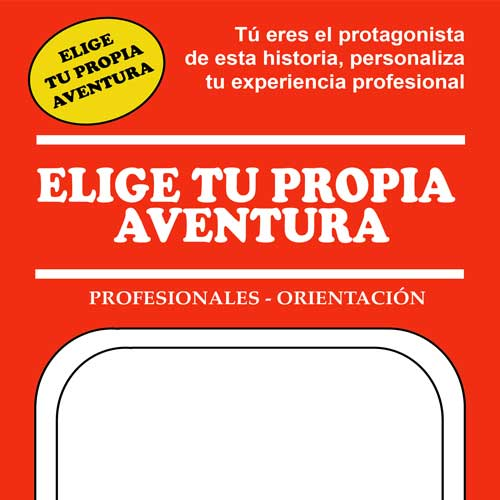
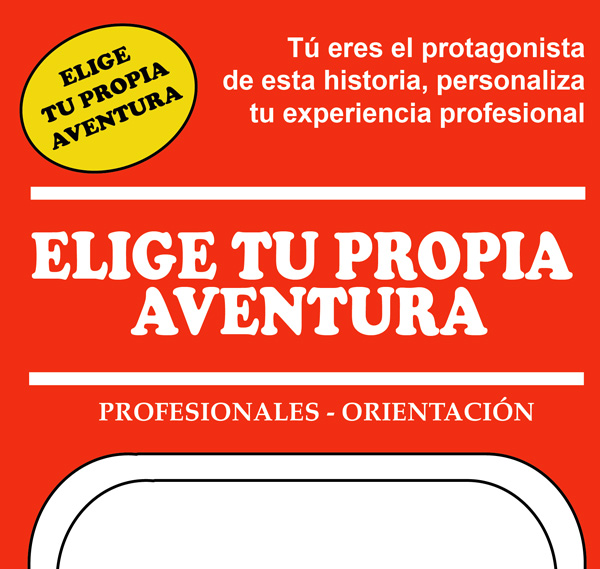
otra subida

diff --git a/secciones/main.html b/secciones/main.html
@@ -60,32 +60,35 @@
             </ol>
             <div class="carousel-inner" id="titulos">
                 <div class="carousel-item active">
-                    <img src="https://static.vix.com/es/sites/default/files/styles/4x3/public/imj/entrepadres/r/recetas-de-comida-para-fiestas-infantiles-1.jpg"
+                    <img src="https://da28ojrjakn6f.cloudfront.net/tickets/27794/NEW/img_1621937533_1621938622__3.jpg?v=1.1.0"
                         class="d-block w-100 img_carousel" alt="Niñx por soplar la torta en su cumpleaños">
                     <div class="carousel-caption d-sm-block">
-                        <h1 class="display-1 resaltador">Canguro animaciones</h1>
+                        <h1 class=" resaltador">Canguro animaciones</h1>
+                        <p class="display-5">La mejor fiesta para vos</p>
                     </div>
                 </div>
                 <div class="carousel-item">
-                    <img src="https://ideasparalasfiestas.com/wp-content/uploads/2019/06/Novedades-en-fiestas-infantiles-1280x720.jpg"
+                    <img src="https://www.spectrum-events.com/upload_files/services/spectrum-events_kids_1579702250.jpg"
                         class="d-block w-100 img_carousel" alt="Decoración temática de cumpleaños">
                     <div class="carousel-caption d-sm-block ">
-                        <h2 class="display-1 resaltador">Canguro animaciones</h2>
-
+                        <h2 class="resaltador">Canguro animaciones</h2>
+                        <p class="display-5">La mejor fiesta para vos</p>
                     </div>
                 </div>
                 <div class="carousel-item">
-                    <img src="https://d2qc4bb64nav1a.cloudfront.net/cdn/13/images/curso-organizador-fiestas-infantiles_amp_primaria_1_1560502984.jpg"
+                    <img src="https://www.mrflavour.co.uk/wp-content/uploads/2020/02/kids-partying-1920x1080.jpg"
                         class="d-block w-100 img_carousel" alt="Grupo de amigxs celebrando un cumpleaños">
                     <div class="carousel-caption d-sm-block">
-                        <h2 class="display-1 resaltador">Canguro animaciones</h2>
+                        <h2 class=" resaltador">Canguro animaciones</h2>
+                        <p class="display-5">La mejor fiesta para vos</p>
                     </div>
                 </div>
                 <div class="carousel-item">
                     <img src="https://static.vix.com/es/sites/default/files/styles/4x3/public/n/no_gastes_de_mas_organiza_una_fiestan_infantil_con_poco_presupuesto.jpg"
                         class="d-block w-100 img_carousel" alt="amigxs celebrando cumpleaños al aire libre">
                     <div class="carousel-caption d-sm-block">
-                        <h2 class="display-1 resaltador">Canguro animaciones</h2>
+                        <h2 class="resaltador">Canguro animaciones</h2>
+                        <p class="display-5">La mejor fiesta para vos</p>
                     </div>
                 </div>
 

diff --git a/css/style.css b/css/style.css
@@ -202,46 +202,50 @@ input {
   .portada .izq-arriba {
     grid-area: izq-arriba; }
     .portada .izq-arriba:hover {
-      transform: scale(1.1) translate(20px);
+      transform: scale(1) translate(0px);
       padding-top: 2rem;
       transition-duration: 0.5s;
       font-size: 3rem; }
   .portada .der-arriba {
     grid-area: der-arriba; }
     .portada .der-arriba:hover {
-      transform: scale(1.1) translate(-10px);
+      transform: scale(1) translate(0px);
       padding-top: 5rem;
-      transition-duration: 0.5s;
+      transition-duration: 0.9s;
       font-size: 3rem; }
   .portada .centro {
     grid-area: centro;
     border: solid 2px; }
     .portada .centro:hover {
       transform: scale(1.1);
-      transition-duration: 0.3s; }
+      transition-duration: 0.5s; }
     .portada .centro .logo__portada {
       width: 100%;
       height: 100%; }
   .portada .izq-abajo {
     grid-area: izq-abajo; }
     .portada .izq-abajo:hover {
-      transform: scale(1.1) translate(10px);
+      transform: scale(1) translate(0px);
       padding-top: 5rem;
-      transition-duration: 0.5s;
+      transition-duration: 0.9s;
       font-size: 3rem; }
   .portada .der-abajo {
     grid-area: der-abajo; }
     .portada .der-abajo:hover {
-      transform: scale(1.1) translate(-30px);
+      transform: scale(1) translate(0px);
       padding-top: 2rem;
       transition-duration: 0.5s;
       font-size: 3rem; }
 
 .der-borde {
-  writing-mode: vertical-lr; }
+  writing-mode: vertical-lr;
+  text-align: end; }
 
 .izq-borde {
   writing-mode: vertical-lr; }
+
+.borde-inferior {
+  text-align: end; }
 
 @media (max-width: 768px) {
   .portada {
@@ -345,10 +349,10 @@ input {
   gap: 250px 0px;
   grid-template-areas: "index__presentacion" "main__quienessomos" "main__nuestrasfiestas" "main__jugaconnosotros" "main__contactanos" "main__dondeestamos"; }
   .main .carousel-caption {
-    padding-bottom: 20%; }
+    padding-bottom: 40%; }
     .main .carousel-caption .resaltador {
       font-family: "Carter One", cursive;
-      font-size: 10vw; }
+      font-size: 6vw; }
 
 @media (max-width: 768px) {
   .main {

diff --git a/scss/secciones/_portada.scss b/scss/secciones/_portada.scss
@@ -21,7 +21,7 @@
     @extend %elementosPortada;
 
     &:hover {
-      @include hoverPortada (1.1, 20px, 2rem, 0.5s, 3rem)
+      @include hoverPortada (1, 0px, 2rem, 0.5s, 3rem)
     }
   }
 
@@ -30,7 +30,7 @@
     @extend %elementosPortada;
 
     &:hover {
-      @include hoverPortada (1.1, -10px, 5rem, 0.5s, 3rem);
+      @include hoverPortada (1, 0px, 5rem, 0.9s, 3rem);
     }
   }
 
@@ -40,7 +40,7 @@
 
     &:hover {
       transform: scale(1.1);
-      transition-duration: 0.3s;
+      transition-duration: 0.5s;
     }
 
     .logo__portada {
@@ -54,7 +54,7 @@
     @extend %elementosPortada;
 
     &:hover {
-      @include hoverPortada (1.1, 10px, 5rem, 0.5s, 3rem);
+      @include hoverPortada (1, 0px, 5rem, 0.9s, 3rem);
     }
   }
 
@@ -63,7 +63,7 @@
     @extend %elementosPortada;
 
     &:hover {
-      @include hoverPortada(1.1, -30px, 2rem, 0.5s, 3rem);
+      @include hoverPortada(1, 0px, 2rem, 0.5s, 3rem);
     }
   }
 }
@@ -71,6 +71,7 @@
 
 .der-borde {
   writing-mode: vertical-lr;
+  text-align: end;
 }
 
 
@@ -78,6 +79,9 @@
   writing-mode: vertical-lr;
 }
 
+.borde-inferior{
+  text-align: end;
+}
 
 @media (max-width: 768px) {
   .portada {

diff --git a/index.html b/index.html
@@ -36,16 +36,16 @@
                 </a> </div>
 
             <div class="der-borde">
-                <p class="animacion__borde"> Cuidado</p>
+                <p> Cuidado</p>
             </div>
             <div class="borde-superior ">
-                <p class="animacion__borde"> Fiesta espectacular</p>
+                <p> Fiesta espectacular</p>
             </div>
             <div class="izq-borde">
-                <p class="animacion__borde"> Cuidado </p>
+                <p> Cuidado </p>
             </div>
             <div class="borde-inferior">
-                <p class="animacion__borde"> Fiesta espectacular</p>
+                <p> Fiesta espectacular</p>
             </div>
         </div>
 

diff --git a/scss/secciones/_main.scss b/scss/secciones/_main.scss
@@ -11,17 +11,20 @@
     "main__contactanos"
     "main__dondeestamos";
 
+
+  
+
   .carousel-caption {
-    padding-bottom: 20%;
+    padding-bottom: 40%;
 
 
     
     .resaltador {
       font-family: $fuenteTitulos;
-      font-size: 10vw;
+      font-size: 6vw;
     }
 
-
+  
   }
 }
 
@@ -29,6 +32,7 @@
   .main {
     grid-template-rows: 0.1fr 0.2fr 0.3fr 0.293fr 0.2fr 0.1fr;
     gap: 150px 0px;
+
 
     .carousel-caption {
       padding-bottom: 15%;

diff --git a/scss/utilidades/_mapas.scss b/scss/utilidades/_mapas.scss
@@ -32,3 +32,4 @@ $textoElige: (
     @include fuenteGeneral
  }
   };
+
